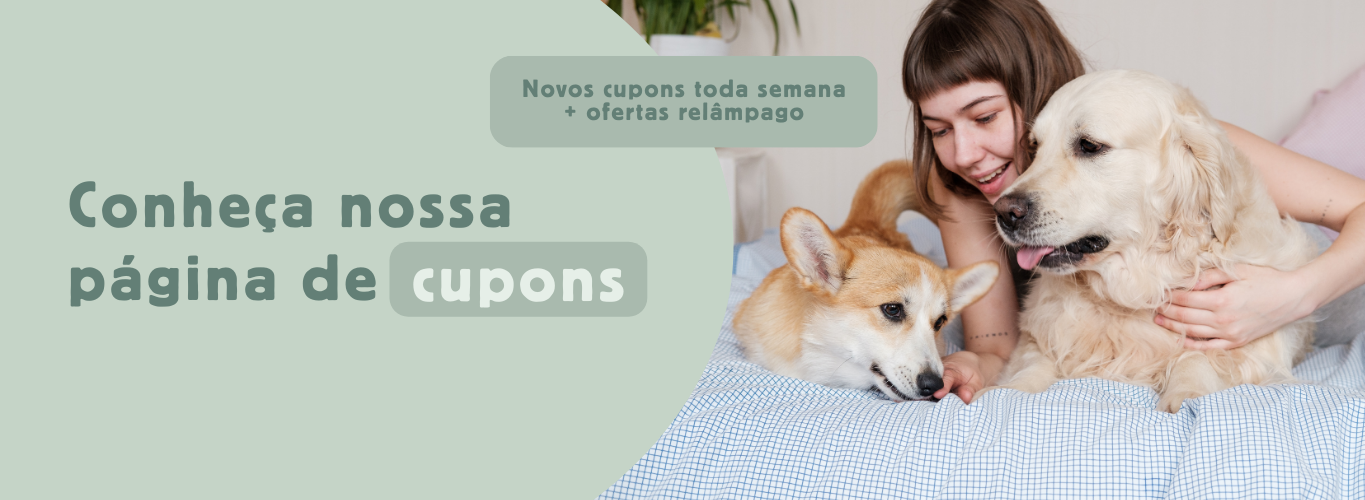
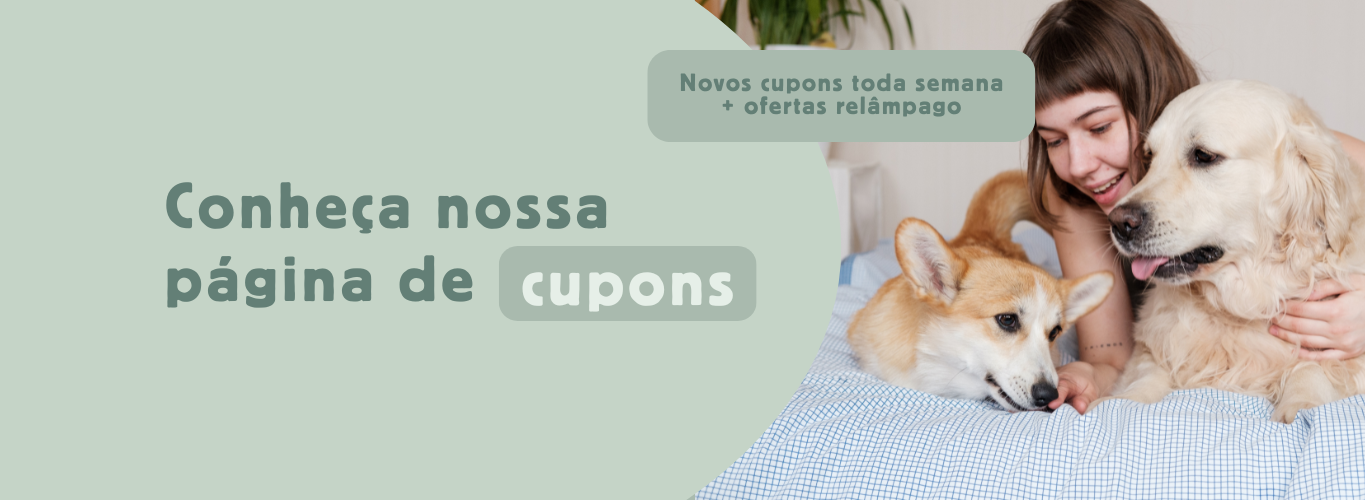
finish homepage

diff --git a/pf-frontend/src/components/home/carousel/index.jsx b/pf-frontend/src/components/home/carousel/index.jsx
@@ -76,8 +76,8 @@ export default function Carousel() {
             <div id="carousel4" carouselBanner='true'></div>
             <div id="carousel5" carouselBanner='true'></div>
 
-            <button className="cControls nxt" onClick={nextCarousel}>NTX</button>
-            <button className="cControls prv" onClick={backCarousel}>PRV</button>
+            <button className="cControls nxt" onClick={nextCarousel}><img src="../../../../public/img/banners-carrossel/setanxt.png" alt="seta" /></button>
+            <button className="cControls prv" onClick={backCarousel}><img src="../../../../public/img/banners-carrossel/setaprv.png" alt="seta" /></button>
         </div>
     )
 }

diff --git a/pf-frontend/src/components/home/botoes/style.css b/pf-frontend/src/components/home/botoes/style.css
@@ -1,7 +1,8 @@
 #botoes-home {
   margin: 0 auto;
-  margin-top: 10vh;
+  margin-top: 1vh;
   margin-bottom: 10vh;
+  margin-left: 1vw;
   display: flex;
   gap: 1vw;
   justify-content: center;
@@ -10,12 +11,11 @@
 .botao-home {
   background-color: var(--vclaro2);
   font-family: corpo;
-  font-size: 110%;
+  font-size: 150%;
   border-radius: 0.5vw;
-  width: 20vw;
-  height: 5vh;
+  width: 22.5vw;
+  height: 7vh;
   align-items: center;
-  margin: 0;
   border: none;
   color: var(--vescuro);
   border: 2px solid transparent;

diff --git a/pf-frontend/src/components/home/carousel/carousel.css b/pf-frontend/src/components/home/carousel/carousel.css
@@ -5,6 +5,7 @@
     justify-content: center;
     align-items: center;
     position: relative;
+    top: 2vh;
 }
 
 [carouselBanner] {
@@ -50,10 +51,17 @@
     position: absolute;
     background-color: transparent;
     border: none;
+    width: 3vw;
+    height: 3vw;
+    cursor: pointer;
+}
+
+.cControls img{
+    width: 2vw;
 }
 
 .cControls.prv {
-    left: 16%;
+    left: 15%;
 }
 
 .cControls.nxt {

diff --git a/pf-frontend/src/components/home/blog/index.jsx b/pf-frontend/src/components/home/blog/index.jsx
@@ -1,6 +1,6 @@
 import React from "react";
 import "./style.css";
-
+ 
 export default function Blog() {
     return (
         <div id="blog">
